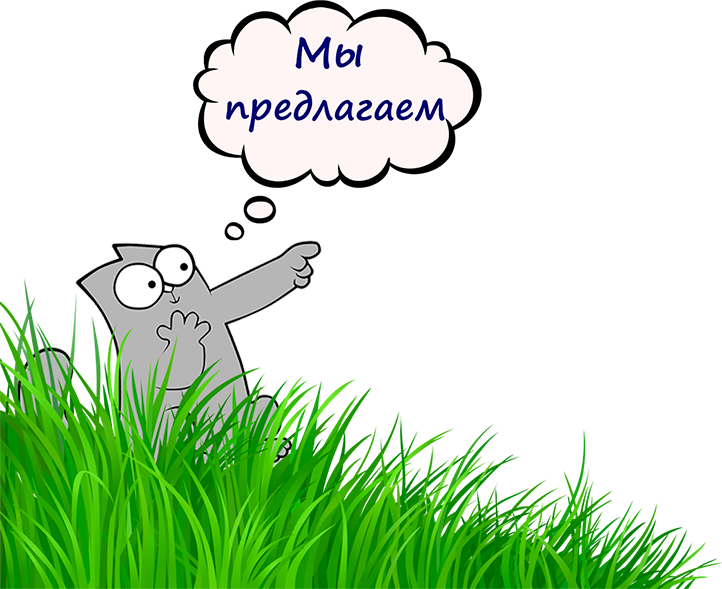
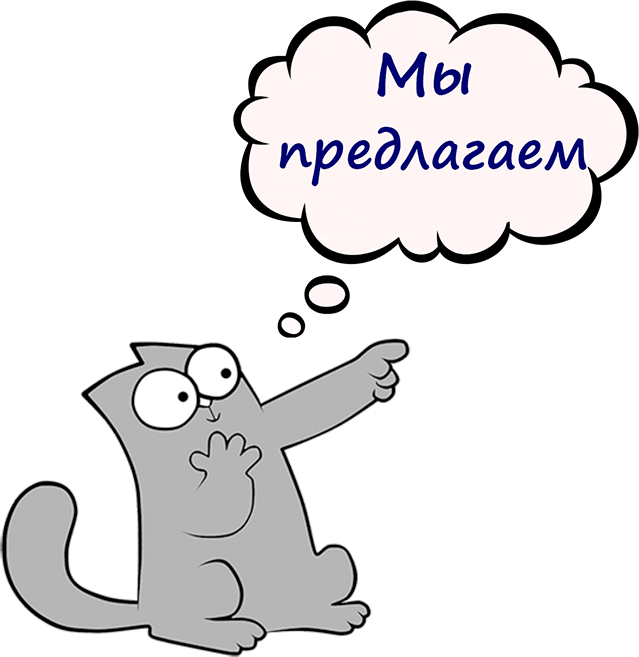
rewrite lines svg for 1920 screen

diff --git a/css/style1920.css b/css/style1920.css
@@ -24,13 +24,29 @@
         height: 100%;
     }
 
+    img.home{
+        position: absolute;
+        bottom: 0;
+        width: 100%;
+        z-index: -1;
+    }
+
     img.catWeOfffer{
         display: block;
         position: absolute;
-        bottom: 0px;
-        left: 0px;
-        width: 32%;
-        z-index: 99;
+        bottom: 12px;
+        left: 5%;
+        width: 19%;
+        z-index: 100;
+    }
+
+    img.grass{
+        display: block;
+        position: absolute;
+        bottom: 0;
+        left: 0;
+        width: 60%;
+        z-index: 100;
     }
 
     img.moon,
@@ -86,7 +102,7 @@
     .starYellow,
     .starBlue,
     .starRed{
-        z-index: -2;
+        z-index: -1000;
         width: 4px;
         height: 4px;
         position: absolute;

diff --git a/css/import.css b/css/import.css
@@ -1,11 +1,11 @@
 @import url('reset.css');
 /* @import url('style2560.css'); */
 @import url('style1920.css');
-@import url('style1600.css');
-@import url('style1400.css');
-@import url('style1100.css');
-@import url('style800.css');
-@import url('style600.css');
-@import url('style400.css');
-@import url('style320.css');    
-@import url('style_h450.css');
+/* @import url('style1600.css'); */
+/* @import url('style1400.css'); */
+/* @import url('style1100.css'); */
+/* @import url('style800.css'); */
+/* @import url('style600.css'); */
+/* @import url('style400.css'); */
+/* @import url('style320.css');     */
+/* @import url('style_h450.css'); */

diff --git a/index.html b/index.html
@@ -11,7 +11,9 @@
 <body>
     <main>
         <img src="img/moon.png" alt="moon" class="moon">
-        <img src="img/catWeOfffer.png" alt="atWeOfffer" class="catWeOfffer">
+        <img src="img/catWeOfffer.png" alt="catWeOfffer" class="catWeOfffer">
+        <img src="img/backGround-min.png" alt="home" class="home">
+        <img src="img/grass.png" alt="grass" class="grass">
         <img src="img/sun.png" alt="sun" class="sun">
         <svg width='100%' height='100%' class='svgContainer'></svg>
         <div class="modal internetShop">
